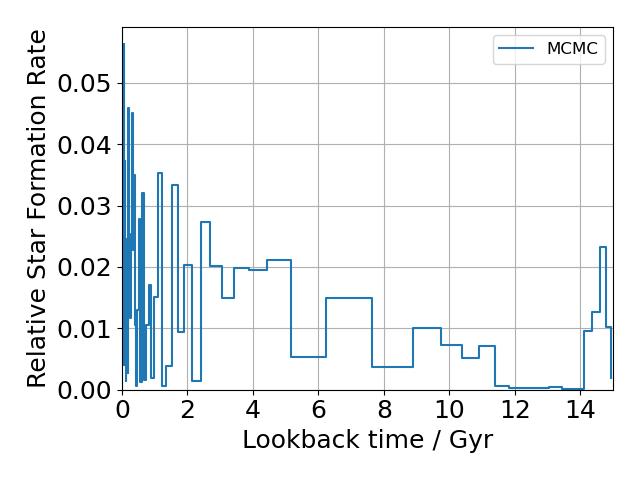
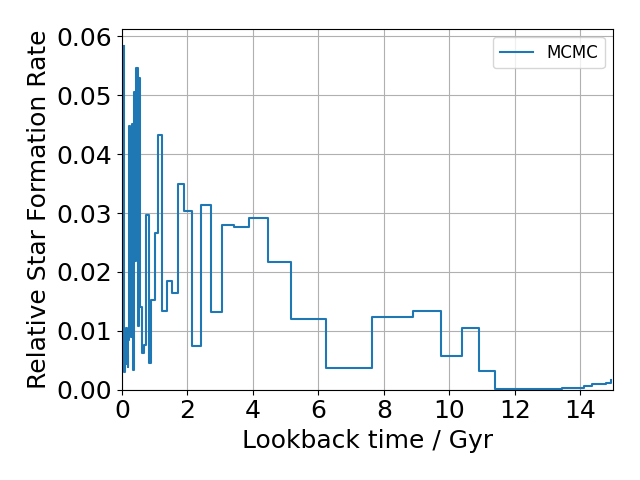
0.2 mag resolution fitted.

diff --git a/sfh_mcmc_gcns_wdlf_optimal_resolution.py b/sfh_mcmc_gcns_wdlf_optimal_resolution.py
@@ -152,7 +152,7 @@ plt.ylabel("Relative number density")
 pwdlf_model_02 = np.vstack(partial_wdlf_02)[:, obs_wdlf_02 > 0.0]
 pwdlf_model_05 = np.vstack(partial_wdlf_05)[:, obs_wdlf_05 > 0.0]
 
-nwalkers_02 = 1000
+nwalkers_02 = 2000
 nwalkers_05 = 500
 
 ndim_02 = len(partial_wdlf_02)
@@ -181,10 +181,10 @@ sampler_05 = emcee.EnsembleSampler(
         pwdlf_model_05,
     ),
 )
-sampler_02.run_mcmc(rel_norm_02, 20000, progress=True)
+sampler_02.run_mcmc(rel_norm_02, 50000, progress=True)
 sampler_05.run_mcmc(rel_norm_05, 2000, progress=True)
 
-flat_samples_02 = sampler_02.get_chain(discard=1000, thin=5, flat=True)
+flat_samples_02 = sampler_02.get_chain(discard=5000, thin=5, flat=True)
 flat_samples_05 = sampler_05.get_chain(discard=500, thin=5, flat=True)
 
 solution_02 = np.zeros(ndim_02)
